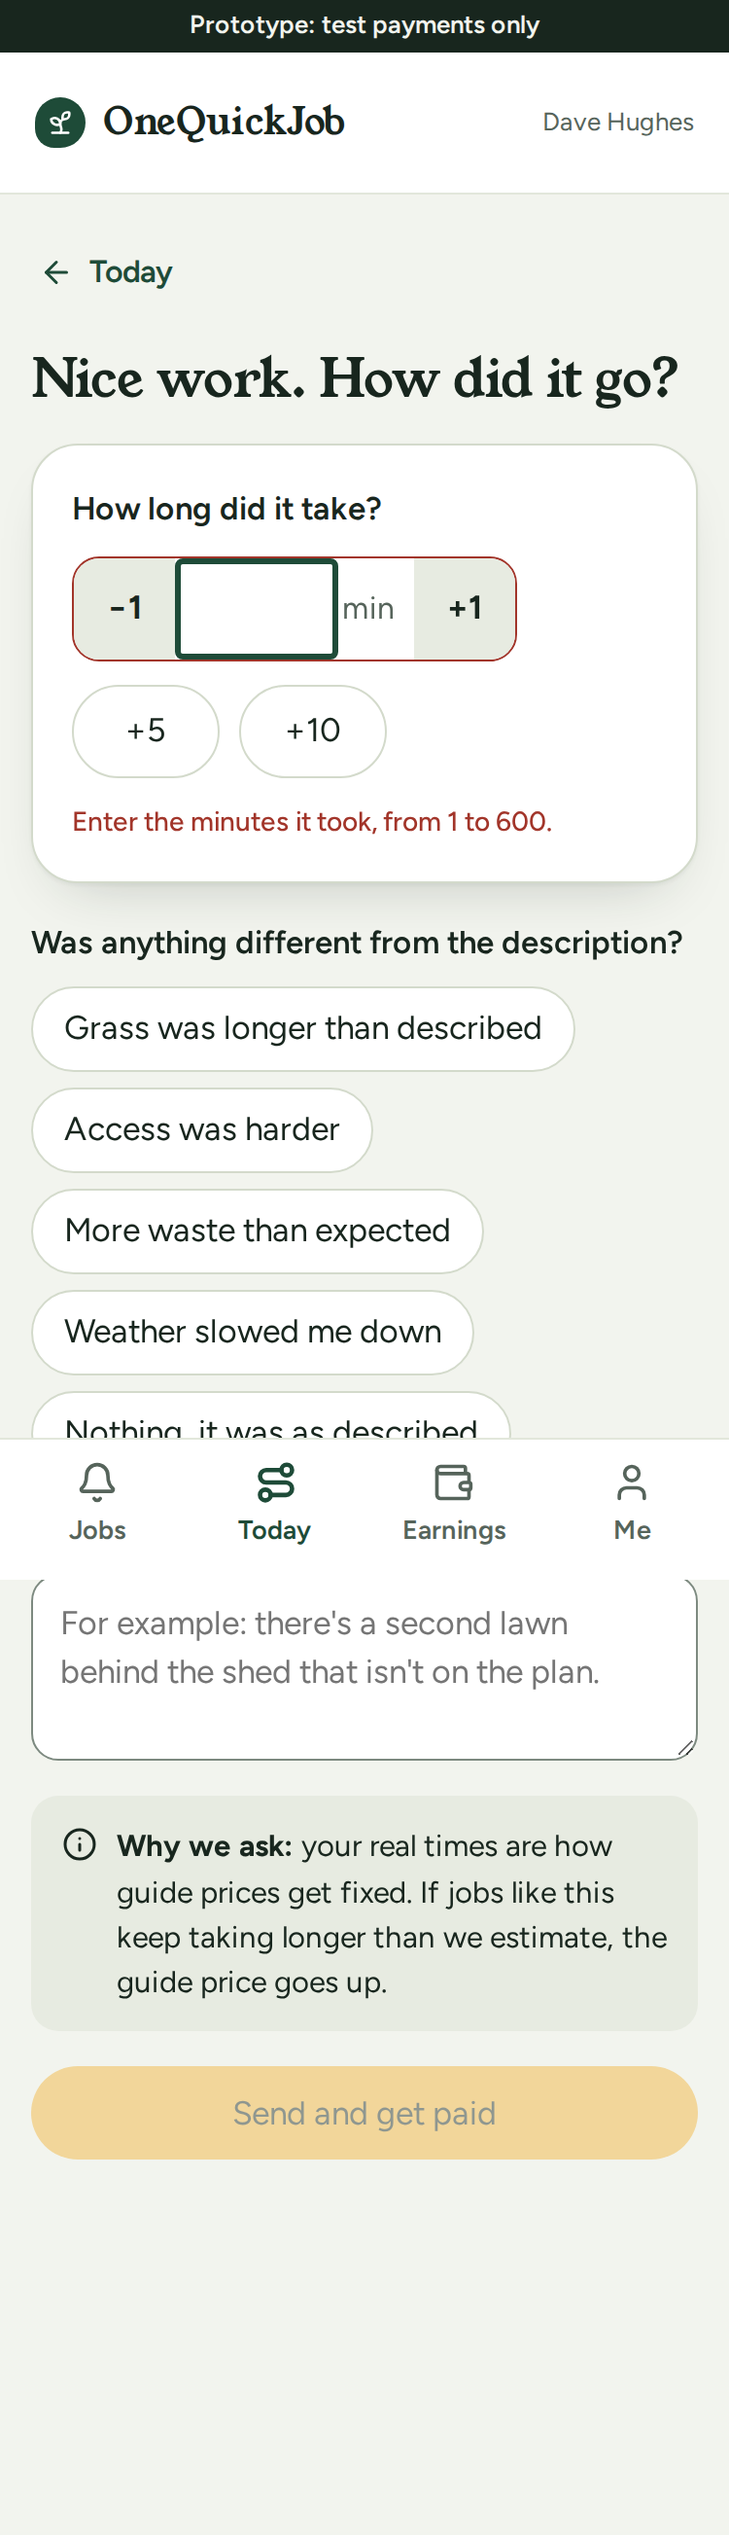
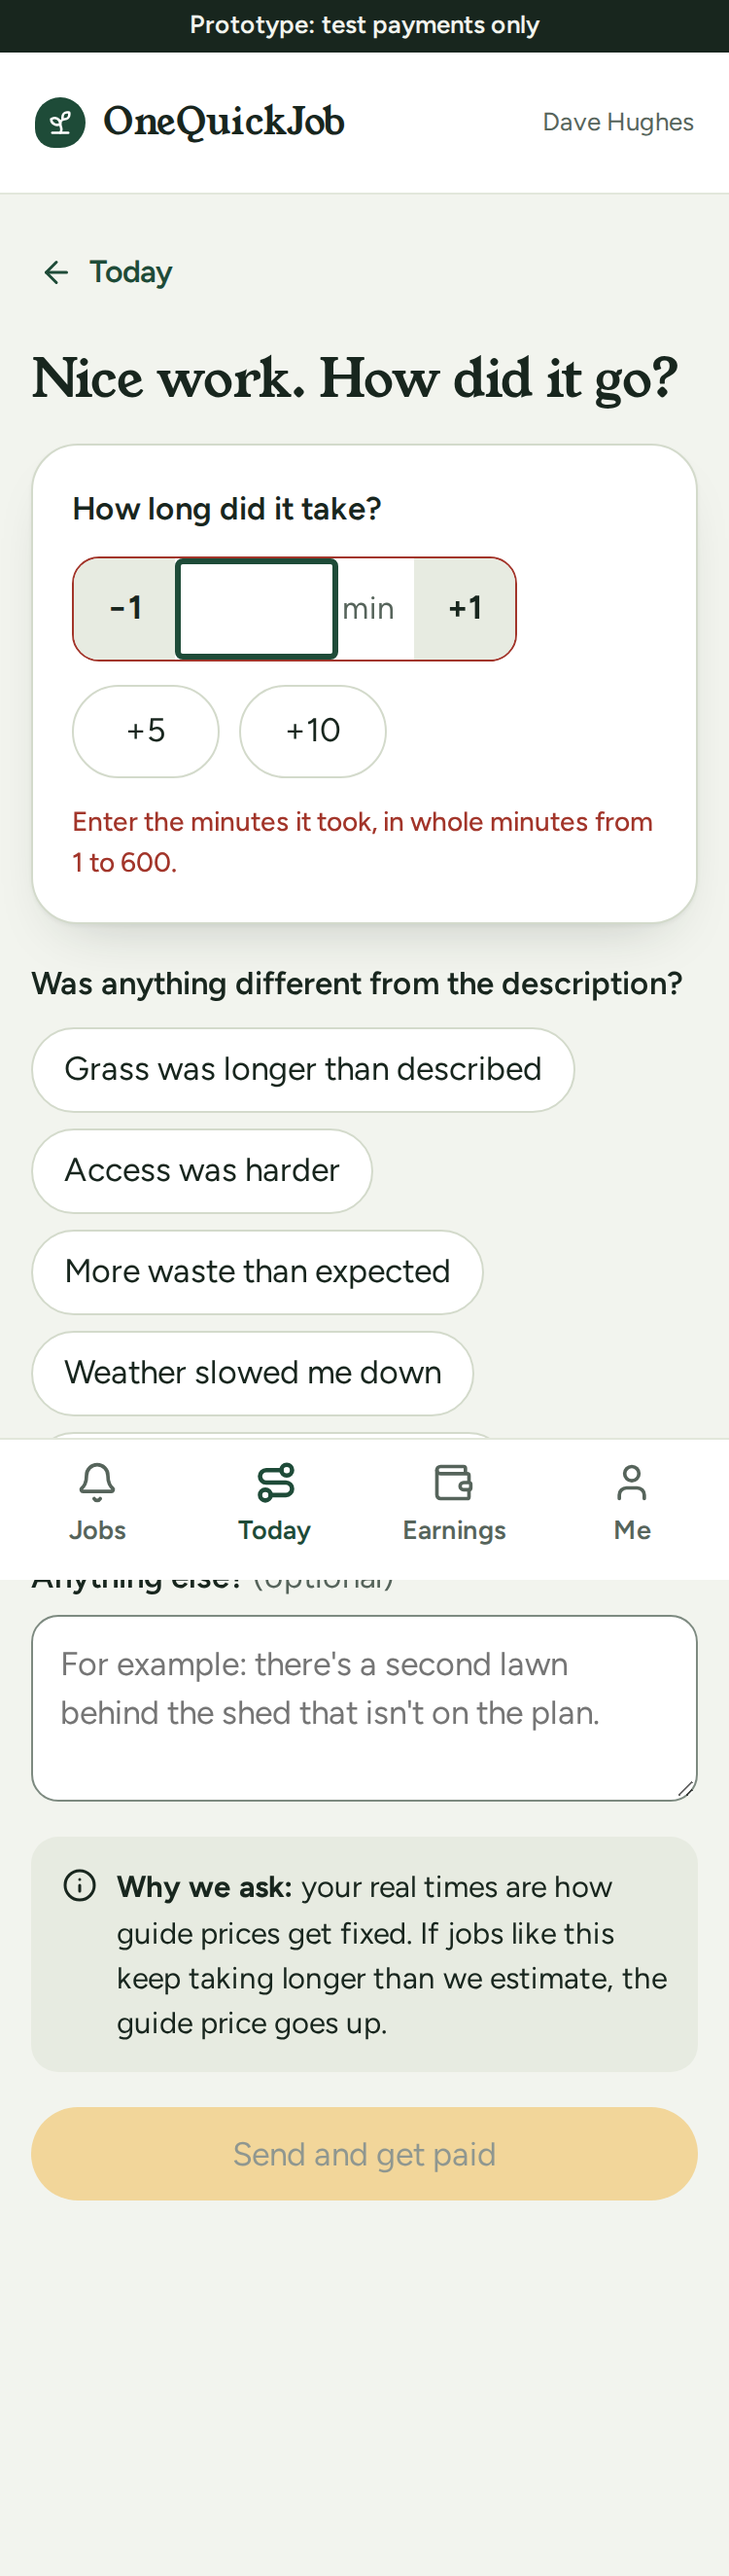
Number fields keep what's typed; estimate failures show with a retry (Codex review)
- NumberField no longer strips or truncates what's typed ("45.5" minutes was read as 455,
  "1000" cut to 100, "12.5" strides to 125). The text is kept as typed (a comma counts as the
  decimal point) and the caller validates it exactly: the finish screen refuses anything but
  whole minutes from 1 to 600 (shared/number-text.ts wholeNumber); the size step points out a
  side that isn't whole strides, or a number with at most two decimal places, beside the field
  and never sends it (flow.badSide; lawnReady gates the details and price steps). -1 and +1
  count from the nearest whole number to what's typed.
- Every estimate failure is shown, not only the API's: a failure to reach it says so with a
  Try again button (est.refetch); "Working out the size..." shows only while it's working.
- Tests for both (typed 45.5, 1000, 45m, 601, 12.5 strides, 30.555 m; a rejected fetch then a
  successful retry). Testing Library waits up to 3 s: parallel test files on four CPUs could
  push a page's first render past the 1 s default.

diff --git a/web/src/customer/quote-flow.test.tsx b/web/src/customer/quote-flow.test.tsx
@@ -133,11 +133,24 @@ describe("lawn size", () => {
     expect(await screen.findByText("That's about 12 × 8 metres (96 m²)")).toBeInTheDocument();
     expect(screen.getByRole("img", { name: "Your lawn drawn to scale, with a car and a person" })).toBeInTheDocument();
     await waitFor(() => expect(go).toBeEnabled());
-    // Only whole strides can be typed, and nothing was asked until both sides were filled.
-    await userEvent.type(box("Strides long"), "x");
-    expect(box("Strides long")).toHaveValue("12");
     expect(asked.at(-1)).toEqual({ method: "paced", adjust: "right", unit: "m", lawns: [{ length: "12", width: "8" }] });
+    // Nothing was asked until both sides were filled, and what's typed is never turned into
+    // another number: "12.5" strides is pointed out here, not sent as 125 or 12.
     expect(asked.every((b) => (b as { lawns: { width: string }[] }).lawns[0].width !== "")).toBe(true);
+    const before = asked.length;
+    await userEvent.type(box("Strides long"), ".5");
+    expect(box("Strides long")).toHaveValue("12.5");
+    expect(await screen.findByText("The length is a whole number of strides, like 12.")).toBeInTheDocument();
+    expect(box("Strides long")).toHaveAttribute("aria-invalid", "true");
+    expect(go).toBeDisabled();
+    expect(screen.queryByText(/That's about/)).not.toBeInTheDocument();
+    await userEvent.click(screen.getByRole("button", { name: "Strides long: +1" }));
+    expect(box("Strides long")).toHaveValue("14"); // from 12.5, the nearest whole number, 13, plus 1
+    await userEvent.clear(box("Strides long"));
+    await userEvent.type(box("Strides long"), "12");
+    expect(await screen.findByText("That's about 12 × 8 metres (96 m²)")).toBeInTheDocument();
+    expect(asked.slice(before).every((b) => (b as { lawns: { length: string }[] }).lawns[0].length !== "12.5")).toBe(true);
+    await waitFor(() => expect(go).toBeEnabled());
     await userEvent.click(go);
     await waitFor(() => expect(router.state.location.pathname).toBe("/quote/mowing/details"));
     expect(JSON.parse(sessionStorage.getItem(FLOW_KEY) ?? "{}").lawn).toMatchObject({ method: "paced", paced: [{ length: "12", width: "8" }] });
@@ -196,9 +209,10 @@ describe("lawn size", () => {
     await userEvent.click(await screen.findByRole("tab", { name: "I know the size" }));
     expect(screen.getByRole("button", { name: "Metres" })).toHaveAttribute("aria-pressed", "true");
     await userEvent.click(screen.getByRole("button", { name: "Feet" }));
-    await userEvent.type(box("Length"), "30,5");
-    expect(box("Length")).toHaveValue("30.5");
-    await userEvent.type(box("Length"), "55");
+    await userEvent.type(box("Length"), "30,555");
+    expect(box("Length")).toHaveValue("30.555");
+    expect(await screen.findByText("The length needs to be a number like 7.5, with up to two decimal places.")).toBeInTheDocument();
+    await userEvent.type(box("Length"), "{Backspace}");
     expect(box("Length")).toHaveValue("30.55");
     await userEvent.type(box("Width"), "20");
     expect(await screen.findByText("That's about 9.1 × 6.1 metres (56 m²)")).toBeInTheDocument();
@@ -211,6 +225,28 @@ describe("lawn size", () => {
     expect(box("Width")).not.toHaveAttribute("aria-invalid");
     expect(screen.queryByText(/That's about/)).not.toBeInTheDocument();
     expect(screen.getByRole("button", { name: "Continue" })).toBeDisabled();
+  });
+
+  it("says so when the size can't be worked out just now, and tries again", async () => {
+    withFlow({ address, addressText: address.label });
+    let down = true;
+    sizeApi({
+      "POST /api/area/estimate": () => {
+        if (down) throw new TypeError("Failed to fetch");
+        return areaEstimate("paced", [[12, 8]]);
+      },
+    });
+    renderAt("/quote/mowing/size");
+    await userEvent.click(await screen.findByRole("tab", { name: "Pace it out" }));
+    await userEvent.type(box("Strides long"), "12");
+    await userEvent.type(box("Strides wide"), "8");
+    expect(await screen.findByText("We couldn't work out the size just now. Check your connection and try again.")).toBeInTheDocument();
+    expect(screen.queryByText("Working out the size…")).not.toBeInTheDocument();
+    expect(screen.getByRole("button", { name: "Continue" })).toBeDisabled();
+    down = false;
+    await userEvent.click(screen.getByRole("button", { name: "Try again" }));
+    expect(await screen.findByText("That's about 12 × 8 metres (96 m²)")).toBeInTheDocument();
+    await waitFor(() => expect(screen.getByRole("button", { name: "Continue" })).toBeEnabled());
   });
 
   it("keeps a flow saved before the three ways", async () => {

diff --git a/web/src/customer/pages/Measure.tsx b/web/src/customer/pages/Measure.tsx
@@ -10,7 +10,7 @@ import { errorText, useAreaEstimate, useAreaOptions, type AreaBand, type AreaInp
 import { LawnScene } from "../components/LawnDrawing";
 import { sceneFactor } from "../components/lawn-scene";
 import { FlowGuard } from "../components/FlowGuard";
-import { EMPTY_LAWN, lawnFilled, lawnInput, lawnsOf, type Adjust, type LawnMethod, type LawnSides, type LawnState, type LengthUnit } from "../flow";
+import { EMPTY_LAWN, badSide, lawnFilled, lawnInput, lawnsOf, type Adjust, type LawnMethod, type LawnSides, type LawnState, type LengthUnit } from "../flow";
 import { useQuoteStep } from "../useQuoteStep";
 
 const g = (px: number) => ({ "--g": `${px}px` }) as CSSProperties;
@@ -193,17 +193,27 @@ export default function Measure() {
 
   const own = lawn.method !== "band";
   const filled = lawnFilled(lawn);
-  const [input, settled] = useSettled(own && filled ? lawnInput(lawn) : null);
+  // A side that isn't a number this way takes is never sent: it's pointed out here.
+  const typo = badSide(lawn);
+  const asking = own && filled && !typo;
+  const [input, settled] = useSettled(asking ? lawnInput(lawn) : null);
   const est = useAreaEstimate(input);
-  const failure = est.error instanceof ApiError ? est.error : null;
-  const bad = {
-    lawn: typeof failure?.extra?.lawn === "number" ? failure.extra.lawn : undefined,
-    side: typeof failure?.extra?.side === "string" ? failure.extra.side : undefined,
-    errorId,
-  };
-  const result = own && filled && est.data ? est.data : null;
+  // The API's reason (naming the lawn and side), or a failure to reach it, with a retry.
+  const apiError = est.error instanceof ApiError ? est.error : null;
+  const failure = typo
+    ? { message: typo.message, lawn: typo.lawn, side: typo.side, retry: false }
+    : asking && est.isError && !est.isFetching
+      ? {
+          message: errorText(est.error, "We couldn't work out the size just now. Check your connection and try again."),
+          lawn: typeof apiError?.extra?.lawn === "number" ? apiError.extra.lawn : undefined,
+          side: typeof apiError?.extra?.side === "string" ? apiError.extra.side : undefined,
+          retry: !apiError || apiError.status >= 500,
+        }
+      : null;
+  const bad = { lawn: failure?.lawn, side: failure?.side, errorId };
+  const result = asking && est.data ? est.data : null;
   const resultLawns = result?.measure.lawns ?? [];
-  const ready = own ? filled && settled && est.isSuccess && !est.isFetching : !!lawn.band;
+  const ready = own ? asking && settled && est.isSuccess && !est.isFetching : !!lawn.band;
   const lawns = lawnsOf(lawn);
   const setLawns = (next: LawnSides[]) => setLawn(lawn.method === "measured" ? { measured: next } : { paced: next });
 
@@ -262,10 +272,17 @@ export default function Measure() {
                 bad={bad}
               />
               <div aria-live="polite" className="stack" style={g(12)}>
-                {failure && filled ? (
-                  <p className="field-error" id={errorId}>
-                    {errorText(failure)}
-                  </p>
+                {failure ? (
+                  <div className="stack" style={g(10)}>
+                    <p className="field-error" id={errorId}>
+                      {failure.message}
+                    </p>
+                    {failure.retry && (
+                      <button type="button" className="btn btn-ghost add-lawn" onClick={() => void est.refetch()}>
+                        Try again
+                      </button>
+                    )}
+                  </div>
                 ) : result ? (
                   <div className="lawn-grid">
                     <div className="lawn-cell stack" style={g(10)}>
@@ -303,7 +320,11 @@ export default function Measure() {
         </button>
         {!ready && !failure && (
           <p className="small center muted">
-            {lawn.method === "band" ? "Choose the size that's closest to continue." : filled ? "Working out the size…" : "Fill in the length and width to continue."}
+            {lawn.method === "band"
+              ? "Choose the size that's closest to continue."
+              : filled
+                ? "Working out the size…"
+                : "Fill in the length and width to continue."}
           </p>
         )}
       </div>

diff --git a/web/src/shared/NumberField.tsx b/web/src/shared/NumberField.tsx
@@ -8,7 +8,7 @@ type NumberFieldProps = {
   /** The text as typed; the caller decides what's valid. */
   value: string;
   onChange: (value: string) => void;
-  /** −1 and +1 stay inside these. */
+  /** −1 and +1 stay inside these (the caller checks what's typed). */
   min?: number;
   max?: number;
   /** Decimals allowed (two places at most): no −1 and +1 buttons. */
@@ -18,19 +18,6 @@ type NumberFieldProps = {
   invalid?: boolean;
   describedBy?: string;
 };
-
-const DECIMAL = /^\d{0,4}([.]\d{0,2})?$/;
-
-/** Clean up what was typed: digits only (whole numbers, no longer than max), or a decimal with
- * at most two places (a comma counts as the point). Returns null to keep the old value. */
-function cleanNumber(raw: string, decimals: boolean, max?: number): string | null {
-  if (decimals) {
-    const v = raw.replace(",", ".").replace(/[^\d.]/g, "");
-    return DECIMAL.test(v) ? v : null;
-  }
-  const v = raw.replace(/\D/g, "");
-  return max !== undefined ? v.slice(0, String(max).length) : v;
-}
 
 /**
  * A number you can type, with −1 and +1 buttons beside it (whole numbers), or a decimal with
@@ -48,10 +35,9 @@ export function NumberField({ id, label, value, onChange, min = 0, max, decimals
       value={value}
       aria-invalid={invalid || undefined}
       aria-describedby={describedBy}
-      onChange={(e) => {
-        const v = cleanNumber(e.target.value, decimals, max);
-        if (v !== null) onChange(v);
-      }}
+      // What's typed is kept as typed (a comma counts as the decimal point), never trimmed or
+      // stripped into another number: the caller says when it isn't a valid one.
+      onChange={(e) => onChange(decimals ? e.target.value.replace(",", ".") : e.target.value)}
     />
   );
   if (decimals) {
@@ -62,7 +48,10 @@ export function NumberField({ id, label, value, onChange, min = 0, max, decimals
       </div>
     );
   }
-  const n = Number.parseInt(value, 10);
+  // −1 and +1 count from the nearest whole number to what's typed (from the minimum if it's empty
+  // or not a number), and stay inside min and max.
+  const typed = value.trim() === "" ? Number.NaN : Number(value.trim());
+  const n = Number.isFinite(typed) ? Math.round(typed) : Number.NaN;
   const step = (by: number) => {
     const from = Number.isNaN(n) ? (by > 0 ? min - by : min) : n;
     const next = Math.max(min, max === undefined ? from + by : Math.min(max, from + by));

diff --git a/web/src/customer/flow.ts b/web/src/customer/flow.ts
@@ -5,6 +5,7 @@
  */
 import { createContext, useContext } from "react";
 import type { Schemas } from "../api/client";
+import { DECIMAL, WHOLE } from "../shared/number-text";
 import type { Address, Category } from "./api";
 
 export type Adjust = "smaller" | "right" | "bigger";
@@ -123,6 +124,34 @@ export function lawnsOf(lawn: LawnState): LawnSides[] {
 export function lawnFilled(lawn: LawnState): boolean {
   if (lawn.method === "band") return !!lawn.band;
   return lawnsOf(lawn).every((l) => l.length.trim() !== "" && l.width.trim() !== "");
+}
+
+export type BadSide = { lawn: number; side: keyof LawnSides; message: string };
+
+/** The first side typed that isn't a number the chosen way takes (whole strides; metres or feet
+ * with up to two decimal places), so it's never sent as some other number. Whether the sizes are
+ * in range is the API's call. */
+export function badSide(lawn: LawnState): BadSide | null {
+  if (lawn.method === "band") return null;
+  const lawns = lawnsOf(lawn);
+  for (const [i, l] of lawns.entries()) {
+    for (const side of ["length", "width"] as const) {
+      const text = l[side].trim();
+      if (text === "" || (lawn.method === "paced" ? WHOLE : DECIMAL).test(text)) continue;
+      const what = lawns.length > 1 ? `Lawn ${i + 1}: the ${side}` : `The ${side}`;
+      const message =
+        lawn.method === "paced"
+          ? `${what} is a whole number of strides, like 12.`
+          : `${what} needs to be a number like 7.5, with up to two decimal places.`;
+      return { lawn: i, side, message };
+    }
+  }
+  return null;
+}
+
+/** Filled in, and every side a number the chosen way takes: ready to be priced. */
+export function lawnReady(lawn: LawnState): boolean {
+  return lawnFilled(lawn) && badSide(lawn) === null;
 }
 
 /** The lawn step's answer as the API takes it (POST /api/area/estimate and /api/quotes). */

diff --git a/web/src/provider/pages/Finish.tsx b/web/src/provider/pages/Finish.tsx
@@ -11,6 +11,7 @@ import { Button } from "../../shared/Button";
 import { Chip } from "../../shared/Chip";
 import { fmt } from "../../shared/format";
 import { NumberField } from "../../shared/NumberField";
+import { wholeNumber } from "../../shared/number-text";
 import { pKeys, useHelperMode, useProviderMutation, useVisit, type FinishOut, type ProviderVisit } from "../api";
 import { BackLink, ErrorNote } from "../components";
 import { css } from "../util";
@@ -57,9 +58,11 @@ function FinishForm({ v, timerMinutes, onDone }: { v: ProviderVisit; timerMinute
   const fromTimer = timerMinutes !== null && timerMinutes >= 1;
   const start = fromTimer ? timerMinutes : v.est_mins;
   const [typed, setTyped] = useState(String(Math.min(MAX_MINS, Math.max(1, start))));
-  const mins = Number.parseInt(typed, 10);
-  const valid = Number.isInteger(mins) && mins >= 1 && mins <= MAX_MINS;
-  const add = (n: number) => setTyped(String(Math.min(MAX_MINS, Math.max(1, (Number.isNaN(mins) ? 0 : mins) + n))));
+  // Exactly what's typed: "45.5" or "1000" is refused, never read as some other number.
+  const whole = wholeNumber(typed);
+  const mins = whole ?? Number.NaN;
+  const valid = whole !== null && whole >= 1 && whole <= MAX_MINS;
+  const add = (n: number) => setTyped(String(Math.min(MAX_MINS, Math.max(1, (whole ?? 0) + n))));
   const [flags, setFlags] = useState<string[]>([]);
   const [note, setNote] = useState("");
   const options = [...(FLAGS[v.category_id] ?? INSIDE), NONE];
@@ -122,7 +125,7 @@ function FinishForm({ v, timerMinutes, onDone }: { v: ProviderVisit; timerMinute
           </span>
         ) : (
           <span className="field-error" id="mins-note" role="alert">
-            Enter the minutes it took, from 1 to {MAX_MINS}.
+            Enter the minutes it took, in whole minutes from 1 to {MAX_MINS}.
           </span>
         )}
       </div>

diff --git a/web/src/provider/provider.test.tsx b/web/src/provider/provider.test.tsx
@@ -242,20 +242,24 @@ describe("the provider app", () => {
     await userEvent.click(screen.getByRole("button", { name: "Minutes taken: −1" }));
     expect(box).toHaveValue("26");
     await userEvent.clear(box);
-    await userEvent.type(box, "45m");
-    expect(box).toHaveValue("45");
+    await userEvent.type(box, "45");
     expect(screen.getByText("The estimate was 38 minutes, so 7 minutes over.")).toBeInTheDocument();
     await userEvent.clear(box);
     await userEvent.type(box, "38");
     expect(screen.getByText("The estimate was 38 minutes, spot on.")).toBeInTheDocument();
     const send = screen.getByRole("button", { name: "Send and get paid" });
-    for (const bad of ["", "0", "601"]) {
+    // Anything but whole minutes from 1 to 600 is refused as typed, never read as another number
+    // ("45.5" isn't 455, "1000" isn't 100).
+    for (const bad of ["", "0", "601", "45.5", "1000", "45m"]) {
       await userEvent.clear(box);
       if (bad) await userEvent.type(box, bad);
-      expect(screen.getByRole("alert")).toHaveTextContent("Enter the minutes it took, from 1 to 600.");
+      expect(box).toHaveValue(bad);
+      expect(screen.getByRole("alert")).toHaveTextContent("Enter the minutes it took, in whole minutes from 1 to 600.");
       expect(box).toHaveAttribute("aria-invalid", "true");
       expect(send).toBeDisabled();
     }
+    await userEvent.clear(box);
+    await userEvent.type(box, "601");
     await userEvent.click(screen.getByRole("button", { name: "Minutes taken: +10" }));
     expect(box).toHaveValue("600");
     expect(screen.getByRole("button", { name: "Minutes taken: +1" })).toBeDisabled();

diff --git a/web/src/customer/pages/Price.tsx b/web/src/customer/pages/Price.tsx
@@ -9,7 +9,7 @@ import { Loading } from "../../app/Status";
 import { ApiError } from "../../api/client";
 import { errorText, type QuoteOut } from "../api";
 import { FlowGuard } from "../components/FlowGuard";
-import { lawnFilled, lawnInput, quoteAnswers, type Days, type Time } from "../flow";
+import { lawnInput, lawnReady, quoteAnswers, type Days, type Time } from "../flow";
 import { useQuoteStep } from "../useQuoteStep";
 
 const g = (px: number) => ({ "--g": `${px}px` }) as CSSProperties;
@@ -61,7 +61,7 @@ export default function Price() {
   const q = useQuery({
     queryKey: ["c", "quote", body],
     queryFn: () => call(api.POST("/api/quotes", { body: body! })),
-    enabled: !!body && !!flow.address && (!cat?.measure || lawnFilled(flow.lawn)),
+    enabled: !!body && !!flow.address && (!cat?.measure || lawnReady(flow.lawn)),
     staleTime: Infinity,
     retry: false,
   });
@@ -74,7 +74,7 @@ export default function Price() {
     <FlowGuard loading={step.loading} unknown={step.unknown} needsAddress={!flow.address}>
       <div className="c-flow">
         <FlowTop steps={steps} current="price" onBack={back} />
-        {cat?.measure && !lawnFilled(flow.lawn) ? (
+        {cat?.measure && !lawnReady(flow.lawn) ? (
           <div className="card stack" style={g(12)}>
             <h1 className="h2">Tell us how big the lawn is</h1>
             <button type="button" className="btn btn-primary" onClick={() => go("size")}>

diff --git a/web/src/customer/pages/Details.tsx b/web/src/customer/pages/Details.tsx
@@ -3,7 +3,7 @@ import { FlowTop } from "../../shared/FlowTop";
 import { useToast } from "../../shared/toast-context";
 import { FlowGuard } from "../components/FlowGuard";
 import { IntakeField } from "../components/IntakeField";
-import { answersFor, emptyCounts, lawnFilled } from "../flow";
+import { answersFor, emptyCounts, lawnReady } from "../flow";
 import { useQuoteStep } from "../useQuoteStep";
 
 /** "A few quick questions": every question comes from the category's intake schema. */
@@ -12,7 +12,7 @@ export default function Details() {
   const { flow, update, cat, steps, go, back, photos, setPhotos } = step;
   const notify = useToast();
   const notesId = useId();
-  const needsLawn = !!cat?.measure && !lawnFilled(flow.lawn);
+  const needsLawn = !!cat?.measure && !lawnReady(flow.lawn);
 
   return (
     <FlowGuard loading={step.loading} unknown={step.unknown} needsAddress={!flow.address}>

diff --git a/web/src/test/setup.ts b/web/src/test/setup.ts
@@ -1,6 +1,10 @@
 import "@testing-library/jest-dom/vitest";
-import { cleanup } from "@testing-library/react";
+import { cleanup, configure } from "@testing-library/react";
 import { afterEach } from "vitest";
+
+// findBy* and waitFor wait up to 3 s (the default is 1 s): test files run in parallel, and a
+// busy machine can take over a second to render a page's first data.
+configure({ asyncUtilTimeout: 3000 });
 
 afterEach(() => {
   cleanup();

diff --git a/web/src/shared/number-text.ts b/web/src/shared/number-text.ts
@@ -1,0 +1,9 @@
+/** What a typed number field may hold: whole numbers, or at most two decimal places ("7.5"). */
+export const WHOLE = /^\d+$/;
+export const DECIMAL = /^\d+(\.\d{1,2})?$/;
+
+/** The whole number typed, or null if the text isn't one (" 45 " is 45; "45.5", "4e1" and "" aren't). */
+export function wholeNumber(text: string): number | null {
+  const t = text.trim();
+  return WHOLE.test(t) ? Number(t) : null;
+}
